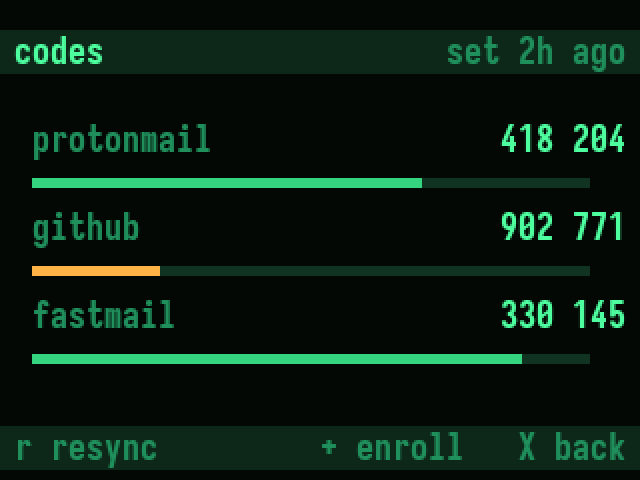
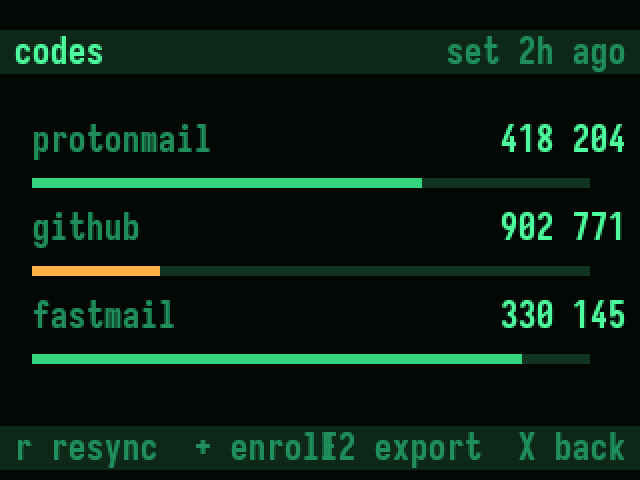
redraw the screenshots to match the firmware
The landing screen became a MenuSystem and the images still showed the
hand-drawn home it replaced. The word game and dice were not pictured at all,
and the footers named keys that had changed.

Changed region(s): [[0.3125, 0.875, 0.75, 0.9688]]

diff --git a/misc/dq-screens/render.py b/misc/dq-screens/render.py
@@ -141,15 +141,33 @@ def s_warning():
 
 
 def s_home():
+    """The landing screen: upstream's MenuSystem, with our rows.
+
+    Not a screen of our own any more, so it is drawn the way the firmware draws
+    menus -- selection in reverse video, scrollbar at the right edge.
+    """
     p = Panel()
-    p.bar(0); p.bar(9)
+    p.bar(0)
     p.text(0, 0, 'cc-Q', PHOSPHOR); p.right(0, '87%', FAINT)
-    p.text(2, 2, 'SUN 14 SEP 2026', PHOSPHOR)
-    p.text(4, 2, 'v  vault', PHOSPHOR);   p.right(4, '42 entries', FAINT)
-    p.text(5, 2, 'c  codes', PHOSPHOR);   p.right(5, '3 enrolled', FAINT)
-    p.text(6, 2, 'j  journal', PHOSPHOR); p.right(6, 'not written', ALERT)
-    p.text(8, 2, 'card A ok  •  B mirrored', FAINT)
-    p.text(9, 0, 'v vault   c codes   j journal', DIM)
+
+    rows = [('SUN 14 SEP 2026   card A+B', None),
+            ('vault     42 entries', None),
+            ('codes     3 enrolled', None),
+            ('journal   not written', ALERT),
+            ('words     12/19, streak 4', None),
+            ('recovery  never split', ALERT),
+            ('Coldcard', None)]
+    for i, (label, colour) in enumerate(rows):
+        sel = (i == 1)
+        if sel:
+            p.rect(0, TOP_MARGIN + (i + 1) * CELL_H, WIDTH, CELL_H, PHOSPHOR)
+            p.text(i + 1, 1, label, BG)
+        else:
+            p.text(i + 1, 1, label, colour or DIM)
+
+    # scrollbar, the way lcd_display draws one
+    p.rect(WIDTH - 4, TOP_MARGIN, 3, 10 * CELL_H - CELL_H, PHOSPHOR, 0.18)
+    p.rect(WIDTH - 4, TOP_MARGIN, 3, 120, PHOSPHOR)
     return p
 
 
@@ -163,7 +181,7 @@ def s_vault_find():
     p.text(4, 1, '▶ protonmail', PHOSPHOR); p.right(4, '14', PHOSPHOR)
     p.text(5, 3, 'proton vpn', DIM);             p.right(5, '27', FAINT)
     p.text(6, 3, 'protonmail work', DIM);        p.right(6, '31', FAINT)
-    p.text(9, 0, '3 of 42', FAINT); p.right(9, 'OK open   X back', FAINT)
+    p.text(9, 0, '3 of 42', FAINT); p.right(9, 'F1 new   OK open', FAINT)
     return p
 
 
@@ -175,7 +193,7 @@ def s_vault_detail():
     p.text(4, 2, '4Kj9-wQ2m-7Fv3', PHOSPHOR)
     p.text(5, 2, '-bL8xR', PHOSPHOR)
     p.text(7, 2, 'hides in 12s', ALERT); p.right(7, 'stored', FAINT)
-    p.text(9, 0, 'n NFC push', FAINT); p.right(9, 'X back', FAINT)
+    p.text(9, 0, 'QR  n NFC  F1 type', FAINT); p.right(9, 'X back', FAINT)
     qr(p, 232, 92, 3)
     return p
 
@@ -230,7 +248,7 @@ def s_codes():
         bx, by, bw = LEFT_MARGIN + CELL_W, TOP_MARGIN + (r + 1) * CELL_H + 8, 31 * CELL_W
         p.rect(bx, by, bw, 5, PHOSPHOR, 0.18)
         p.rect(bx, by, int(bw * frac), 5, DIM if frac > 0.3 else ALERT)
-    p.text(9, 0, 'r resync', FAINT); p.right(9, '+ enroll   X back', FAINT)
+    p.text(9, 0, 'r resync  + enroll', FAINT); p.right(9, 'F2 export  X back', FAINT)
     return p
 
 
@@ -257,6 +275,54 @@ def s_first_run():
     p.text(7, 1, 'journal and codes go too,', ALERT)
     p.text(8, 1, 'unless you exported them.', ALERT)
     p.text(9, 0, 'OK understood', PHOSPHOR)
+    return p
+
+
+def s_words():
+    """The game, drawn exactly as apps/words.py draws it.
+
+    Answer 'eagle'. The marks below are what words.score() actually returns for
+    these guesses -- HIT reverse video, NEAR phosphor, MISS dim, which is the
+    three palettes the hardware has.
+    """
+    p = Panel()
+    p.bar(0); p.bar(9)
+    p.text(0, 0, 'words', PHOSPHOR); p.right(0, '3 left', FAINT)
+
+    H, N, M = 2, 1, 0
+    guesses = [('about', [N, M, M, M, M]),
+               ('alarm', [N, N, M, M, M]),
+               ('agree', [N, N, M, N, H])]
+    for row, (word, marks) in enumerate(guesses):
+        for i, ch in enumerate(word.upper()):
+            x = LEFT_MARGIN + (2 + i * 2) * CELL_W
+            y = TOP_MARGIN + (1 + row) * CELL_H
+            if marks[i] == H:
+                p.rect(x - 1, y, CELL_W + 2, CELL_H, PHOSPHOR)
+                p.blit(x, y, CELL_W, GLYPHS[ch], BG)
+            else:
+                p.blit(x, y, CELL_W, GLYPHS[ch], PHOSPHOR if marks[i] == N else FAINT)
+
+    # the row being typed: ' '.join(typing.upper()), then a cursor
+    typing = 'sle'
+    p.text(4, 2, ' '.join(typing.upper()), PHOSPHOR)
+    p.text(4, 2 + len(typing) * 2, '_', PHOSPHOR)
+
+    p.text(7, 2, 'guess a word', FAINT)
+    p.text(9, 0, 'type a word', FAINT); p.right(9, 'X give up', FAINT)
+    return p
+
+
+def s_dice():
+    "a sealed roll: the code is shown before the result exists to anyone"
+    p = Panel()
+    p.bar(0); p.bar(9)
+    p.text(0, 0, 'dice', PHOSPHOR); p.right(0, 'sealed', ALERT)
+    p.text(2, 1, 'Show this before revealing:', FAINT)
+    p.text(4, 2, '9f2a-44c1-0b7e-51d3', PHOSPHOR)
+    p.text(6, 1, 'd6, 3 rolls.  The result is', FAINT)
+    p.text(7, 1, 'already decided.', FAINT)
+    p.text(9, 0, 'OK reveal', PHOSPHOR); p.right(9, 'X later', FAINT)
     return p
 
 
@@ -305,6 +371,8 @@ SCREENS = [
     ('screen-codes',       s_codes),
     ('screen-codes-noclock', s_codes_stale),
     ('screen-first-run',   s_first_run),
+    ('screen-words',       s_words),
+    ('screen-dice',        s_dice),
 ]
 
 if __name__ == '__main__':

diff --git a/README.md b/README.md
@@ -15,7 +15,7 @@ only**. Not affiliated with, endorsed by, or supported by Coinkite.
 <a href="https://github.com/Ak1ra00/cc-Q/raw/main/releases/cc-Q/cc-Q-0.1-2026-09-14-q1-devkey0.dfu"><img src="docs/img/download-dfu.png" width="300" alt="Download cc-Q 0.1 for the Coldcard Q"></a>
 
 **[Download `cc-Q-0.1-2026-09-14-q1-devkey0.dfu`](https://github.com/Ak1ra00/cc-Q/raw/main/releases/cc-Q/cc-Q-0.1-2026-09-14-q1-devkey0.dfu)** ·
-sha256 `eb4a2ad2939ab50e…0657dc` ·
+sha256 `d25ef07d00df0258…4af827` ·
 [browse it](releases/cc-Q/cc-Q-0.1-2026-09-14-q1-devkey0.dfu) ·
 [older builds](releases/cc-Q)
 
@@ -36,8 +36,8 @@ on hardware yet. Use a device you are willing to wipe.
 <td width="50%"><img src="docs/img/screen-vault-find.png" width="100%" alt="Vault search: a find field filtering entries by service, each row showing its permanent id, match count in the footer."></td>
 </tr>
 <tr>
-<td><sub><b>Home.</b> One row per app, each rendering its own status. <code>not written</code> in amber is the only nag in the product.</sub></td>
-<td><sub><b>Vault — find.</b> Type to filter. The number on the right is the entry's id: assigned once, never reused.</sub></td>
+<td><sub><b>The landing screen.</b> One row per app carrying its own status, the date on top, the Coldcard's own menu at the bottom. <code>not written</code> in amber is the only nag in the product.</sub></td>
+<td><sub><b>Vault.</b> Opens straight here — typing is the fastest path to a password. The number on the right is the entry's id: assigned once, never reused.</sub></td>
 </tr>
 <tr>
 <td><img src="docs/img/screen-vault-entry.png" width="100%" alt="Vault entry: password shown large in phosphor green with a QR code beside it, an amber auto-hide countdown, and the word stored in the corner."></td>
@@ -55,13 +55,23 @@ on hardware yet. Use a device you are willing to wipe.
 <td><sub><b>Journal.</b> Five lines visible, on the Q's own keyboard. Save state is shown twice, because unsaved text on an unpluggable device deserves it.</sub></td>
 <td><sub><b>Codes, clock unknown.</b> The Q has no clock. Rather than show numbers that might be wrong, cc-Q greys them and says why.</sub></td>
 </tr>
+<tr>
+<td><img src="docs/img/screen-words.png" width="100%" alt="Word game: three guessed words scored letter by letter, one letter highlighted in reverse video as an exact match, a fourth word being typed."></td>
+<td><img src="docs/img/screen-dice.png" width="100%" alt="Dice screen showing a sealed roll: a four-group code to show someone before the result is revealed."></td>
+</tr>
+<tr>
+<td><sub><b>words.</b> Six tries, on the BIP-39 list already in flash. Reverse video is an exact letter, bright is present, dim is not in the word — the three palettes the hardware has.</sub></td>
+<td><sub><b>dice.</b> The code is shown <i>before</i> the roll is revealed, so afterwards anyone can check the result was fixed in advance.</sub></td>
+</tr>
 </table>
 
 These are rendered from the Q's own font data at the panel's real geometry —
 320×240, a 34×10 character grid of 9×22px cells — so the line lengths are the
-line lengths you get. All seven apps are in the download above; what is not yet
-proven is how these screens behave under a finger on a real device. Regenerate
-the images any time with `python3 misc/dq-screens/render.py`.
+line lengths you get, and the letter colouring in the game is what the scoring
+code actually produces. The landing screen is upstream's own menu widget, drawn
+here the way the firmware draws menus. What is still unproven is how any of it
+behaves under a finger on a real device. Regenerate the images with
+`python3 misc/dq-screens/render.py`.
 
 ## Read this first
 
@@ -166,7 +176,7 @@ The plan and its milestones live in [`SPEC.md`](SPEC.md), the backlog in
 
 | file | what is in it | sha256 |
 |---|---|---|
-| [`cc-Q-0.1-2026-09-14-q1-devkey0.dfu`](releases/cc-Q/cc-Q-0.1-2026-09-14-q1-devkey0.dfu) | **current.** All seven apps, on upstream 1.5.2Q. | `eb4a2ad2939ab50e…0657dc` |
+| [`cc-Q-0.1-2026-09-14-q1-devkey0.dfu`](releases/cc-Q/cc-Q-0.1-2026-09-14-q1-devkey0.dfu) | **current.** All seven apps, on upstream 1.5.2Q. | `d25ef07d00df0258…4af827` |
 | [`2026-09-03T1540-v1.5.2Q-q1-devkey0-cc-Q.dfu`](releases/cc-Q/2026-09-03T1540-v1.5.2Q-q1-devkey0-cc-Q.dfu) | Upstream 1.5.2Q rebuilt, unchanged. The toolchain proof, kept so later builds can be diffed against it. | `86868b47…7a3d61` |
 
 Both are for the Q only and both are signed with the published developer key, so
